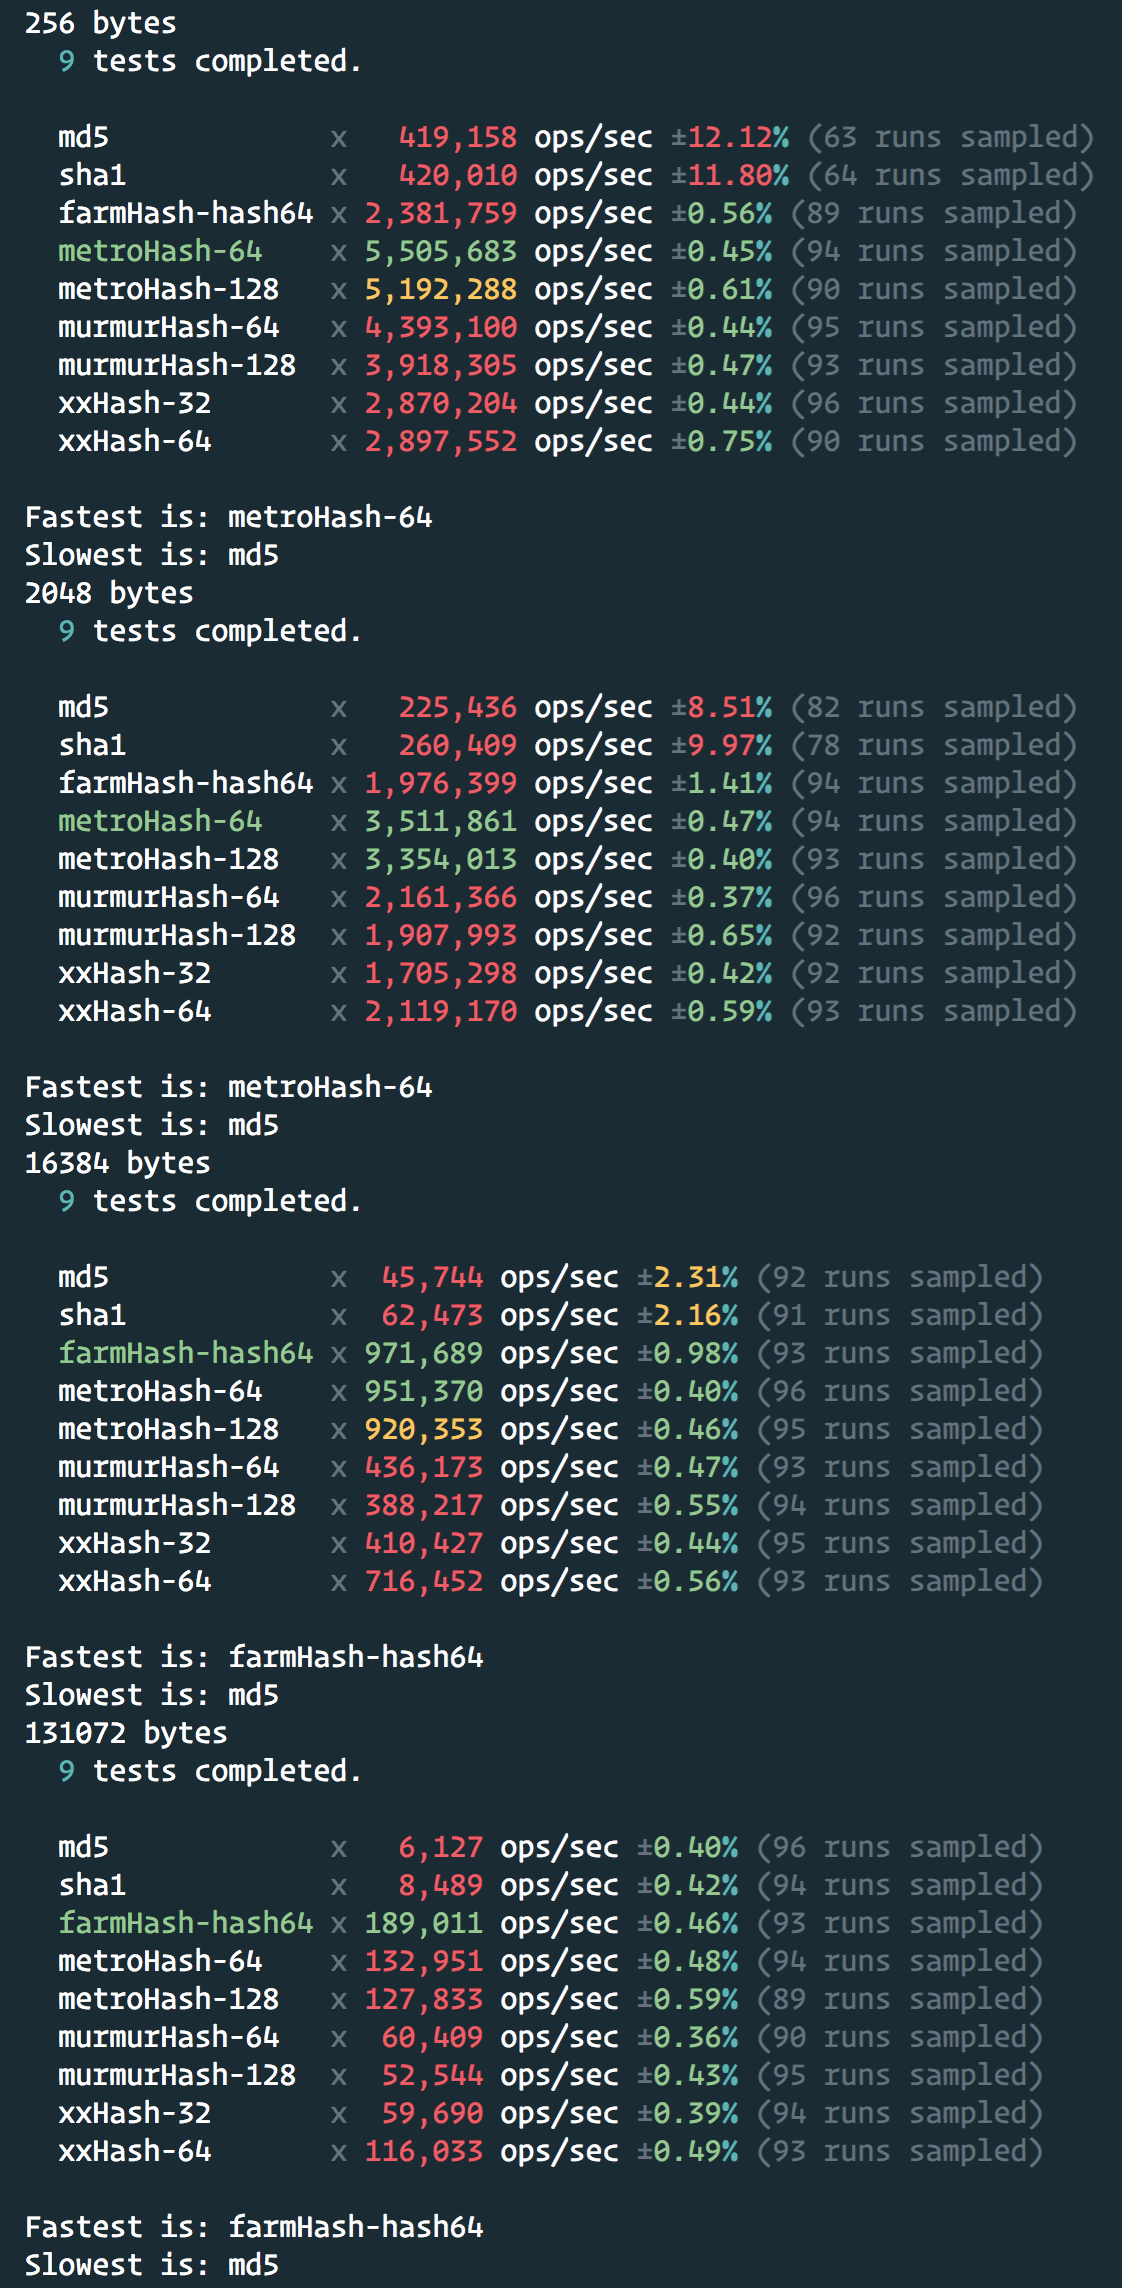
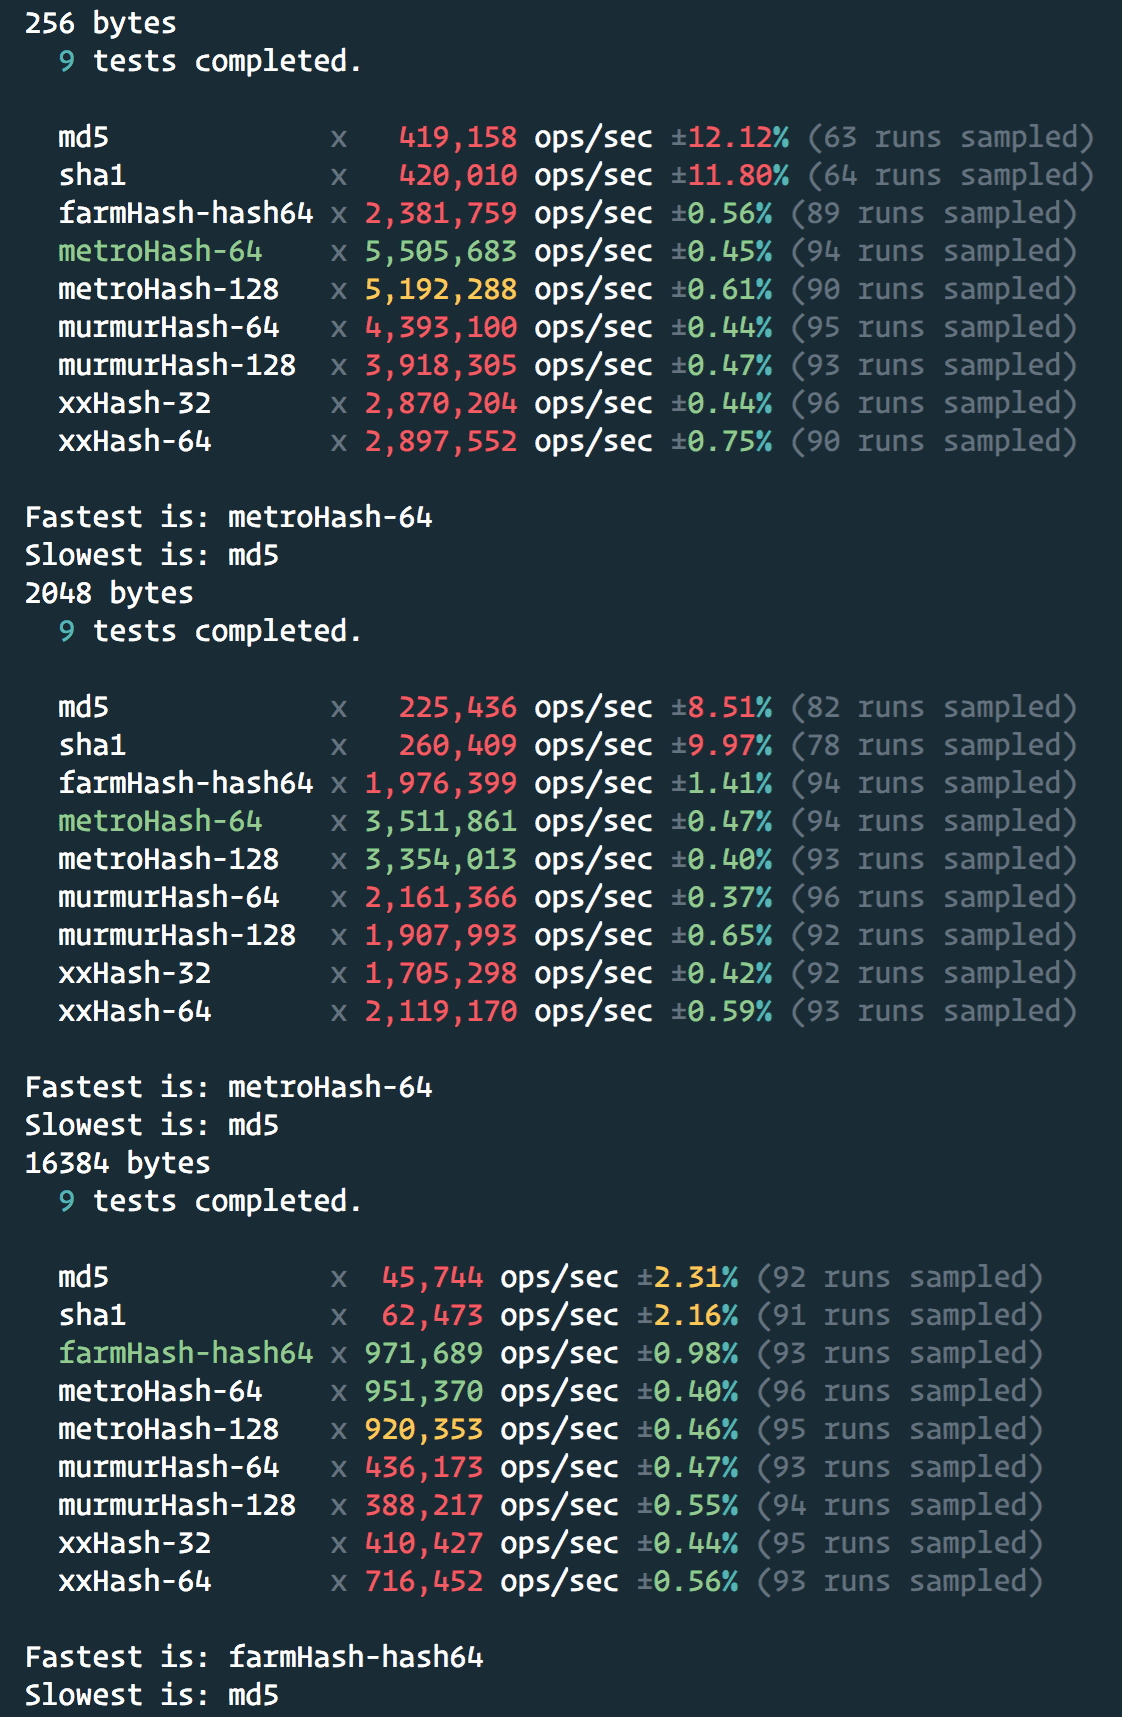
Updated images

Changed region(s): [[0.0, 0.0, 0.967, 1.0]]

diff --git a/readme.md b/readme.md
@@ -2,4 +2,10 @@
 
 Based on the code from [this Medium post](https://medium.com/@drainingsun/in-search-of-a-good-node-js-hashing-algorithm-8052b6923a3b)
 
+## iMac 5K 2014 4Ghz i7
+
 ![imac results](measured-on-imac-5k-2014-4ghz-i7.png)
+
+## MacBook Pro 2016 2.7 Ghz i7
+
+![macbook results](measured-on-macbook-pro-2016-2.7ghz-i7.png)
